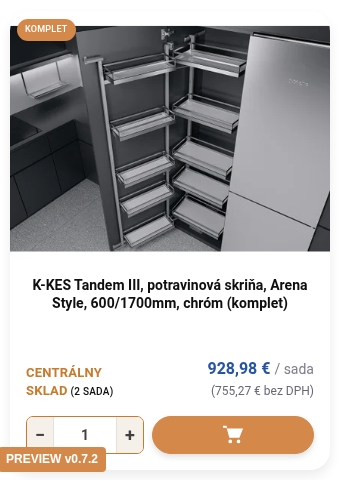
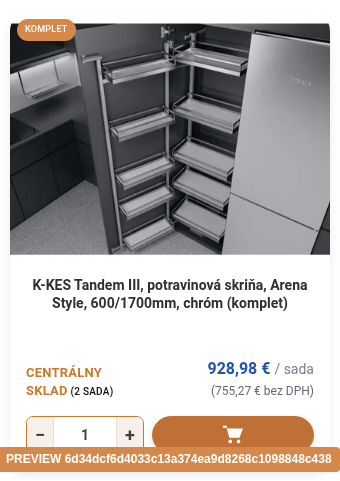
M2: verify four-line title preview from immutable CDN

diff --git a/docs/previews/product-title-v0.7.3-rc.1/README.md b/docs/previews/product-title-v0.7.3-rc.1/README.md
@@ -12,4 +12,10 @@ At desktop widths >=992px, product tiles reserve four title lines instead of thr
 - Native purchase smoke at 375/1440px is recorded separately in purchase.json: popup, native cart quantity, shipping/payment to personal details. No order submitted.
 - ESLint, build and whitespace checks pass. JS 32.31 / 32.5 KiB gzip; CSS 28.94 / 29 KiB. Only rc.1 receives its small documented CSS allowance; older budgets remain fixed.
 
-Initial title measurements/screenshots use locally routed candidate bundles on the public shop. Actual immutable CDN evidence is added after push. Safari/iPhone and PageSpeed NOT TESTED.
+Title measurements use locally routed candidate bundles on the public shop. cdn.json verifies exact immutable CDN asset bytes and real preview checks at 375/1440px; screenshots are from those actual CDN checks. Safari/iPhone and PageSpeed NOT TESTED.
+
+## Preview
+
+https://www.timberstore.sk/?ts_preview=6d34dcf6d4033c13a374ea9d8268c1098848c438
+
+Source/build frozen at that commit; subsequent commits only add evidence. Production loader unchanged.
